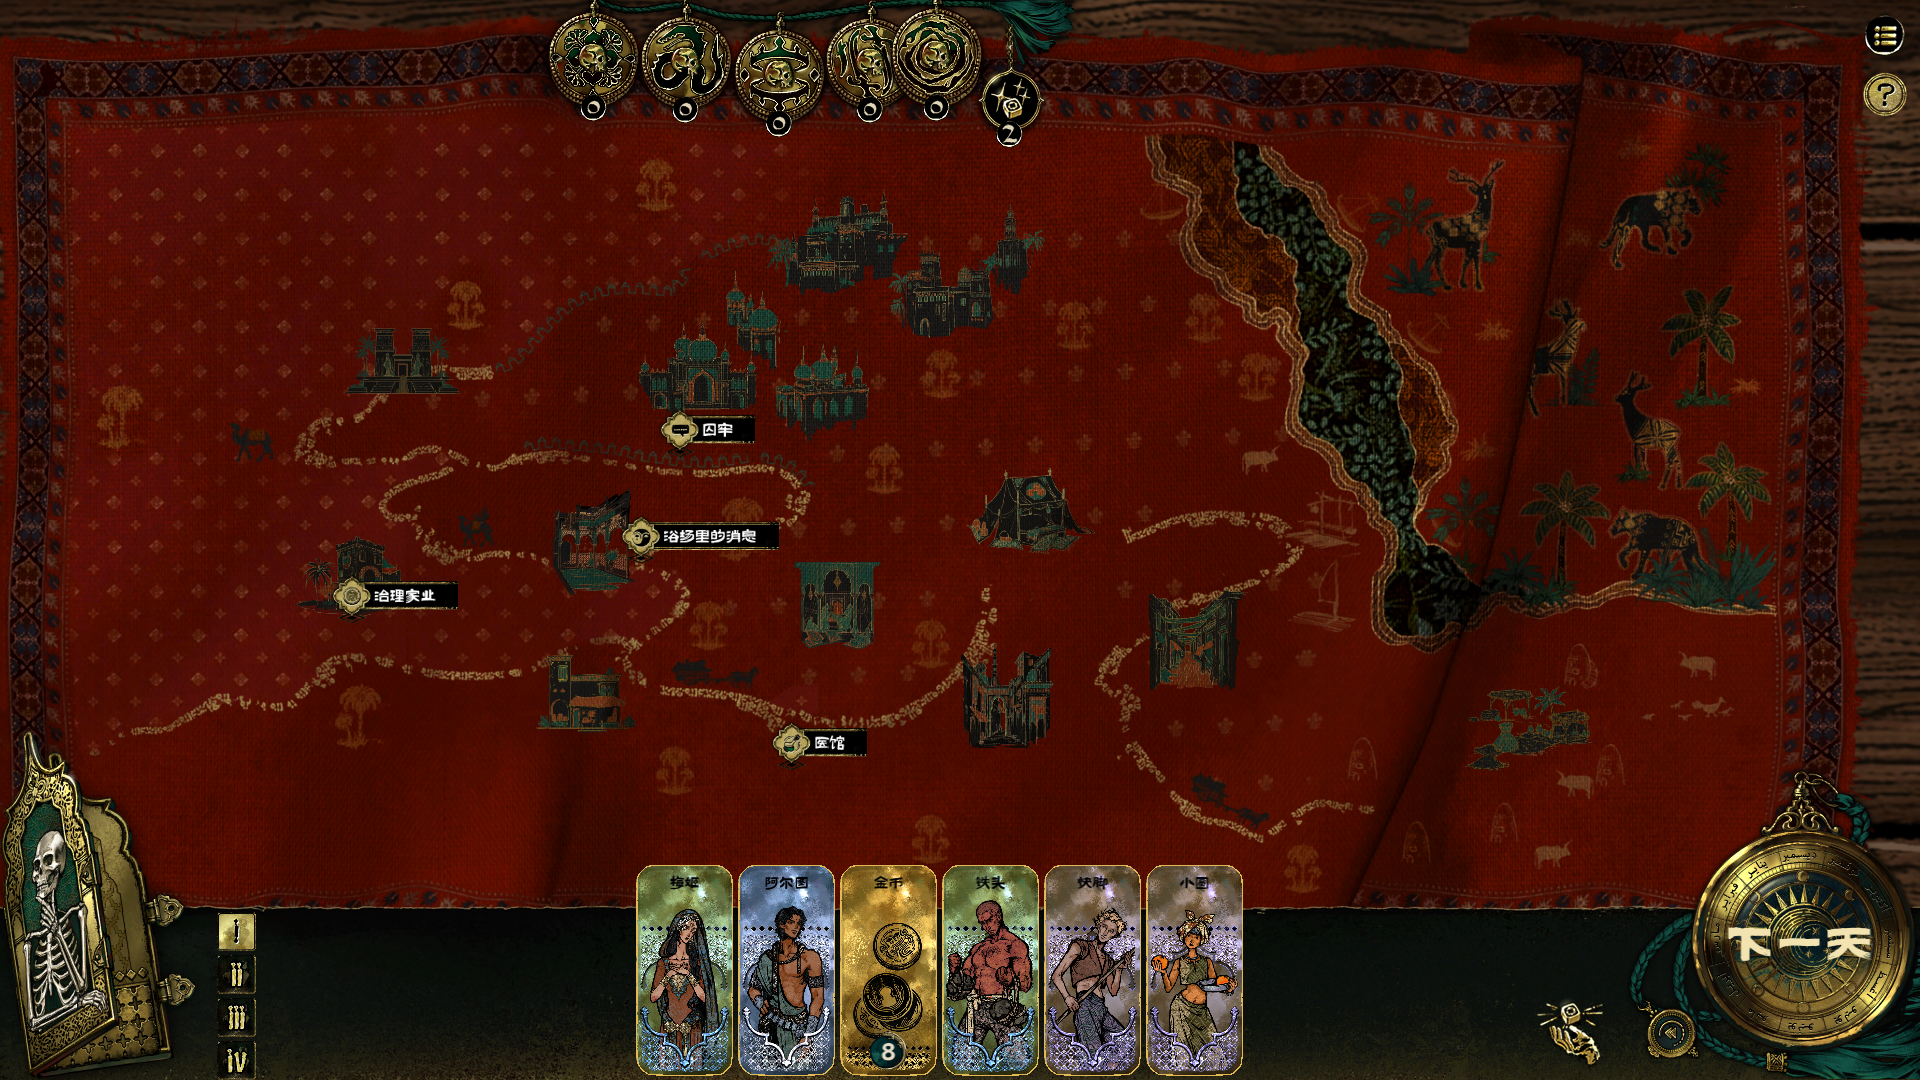
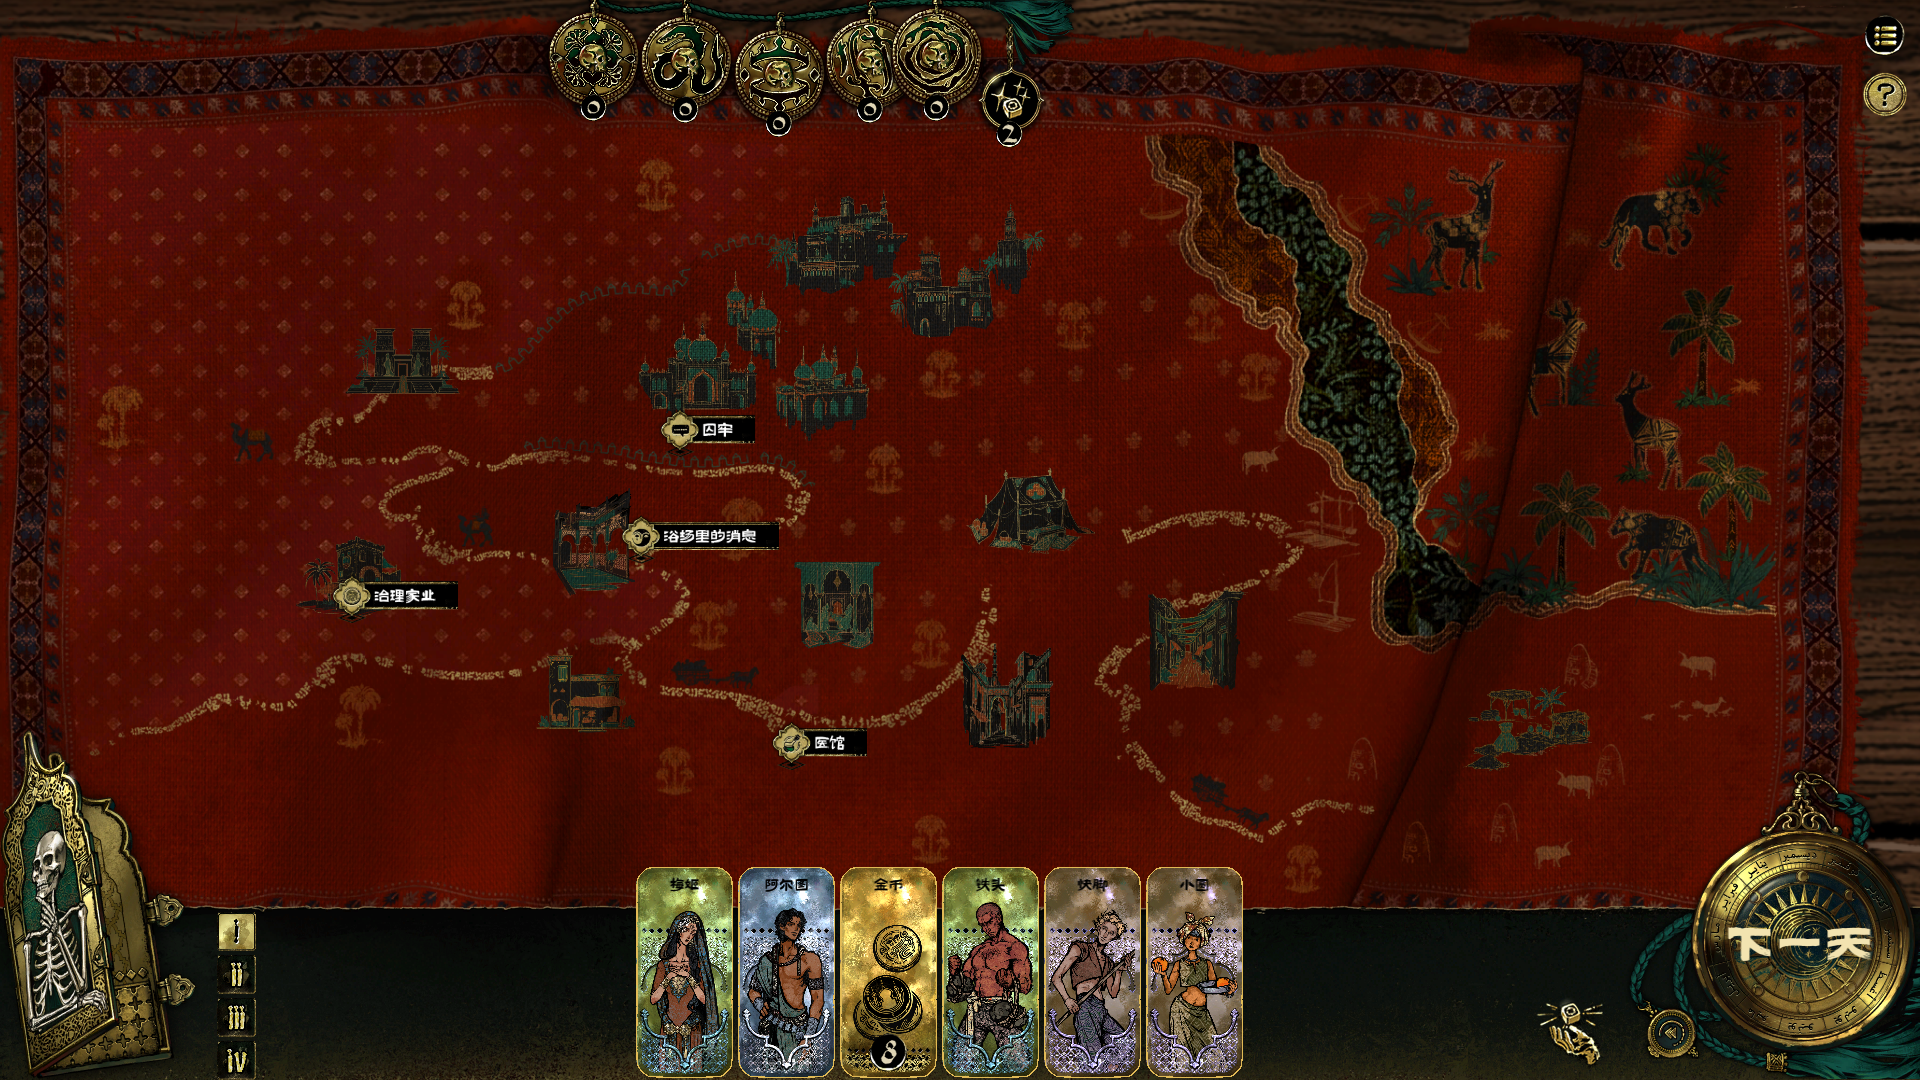
feat: finish the source card face details for the hand
Three source-backed fixes on top of the first card-surface batch:

- Hand baseline: MainUI/Hand anchors (0,0)-(1,0) pos (-63.97,4) sizeDelta
  (-1116.74,430) put the cards on the content rect's bottom edge, not its
  centre; the clone sat 2px high at 1920.
- _DETAIL_MULX2: every non-stone tier has a _DetailAlbedoMap (char
  card_d_1/card_e_0, item card_d_6/card_d_2, sudan card_d/card_d_3) at
  UV0; the six textures are copied byte-identical and multiplied into the
  albedo, with the calibrated scene light divided back out.
- Badge split: CardShowItem/Stackable is the 75x78 checkbox_bg at
  (59.5,332) while char/sudan use number_bg 80x80 at (57,332). Count and
  Life now render the number_6 TMP sprite digits (glyph_height 58/63)
  instead of font glyphs.

Whole-card averages for six hand cards are now within 6 percent of the
original screenshot; the verification tool and comparison image are
refreshed.

Changed region(s): [[0.3125, 0.7944, 0.6562, 1.0]]

diff --git a/docs/METHOD_MAP.md b/docs/METHOD_MAP.md
@@ -1,5 +1,17 @@
 # 原作—克隆方法映射表（METHOD_MAP）
 
+## 手牌卡面 1:1 第二批（2026-09-09，细节贴图/数字精灵/手牌基线）
+
+第一批之后的三项收口：
+
+1. **手牌垂直基线**：GameScene `MainUI/Hand` 锚 (0,0)-(1,0)、pos (-63.97,4)、sizeDelta (-1116.74,430)、pivot (0.52,0)——内容矩形底边距画布底 4 单位，卡牌贴其**底边**而非居中。克隆原来居中，1920 下比原作高 2px；改 `_card_items.size.y - card_size.y` 后卡顶 865→867px，与原作 867-868 对齐。
+2. **`_DetailAlbedoMap`（`_DETAIL_MULX2`）**：12 个卡材质的 detail 贴图逐档取真值——char copper/gold=card_d_1、char silver=card_e_0；item copper/gold=card_d_6、item silver=card_d_2；sudan copper/gold=card_d、sudan silver=card_d_3；stone 档无该贴图也无该 keyword。已复制 6 张纹理（SHA256 与语料一致）并在 shader 里按 `_UVSec: 0` 同 UV 做 `albedo × detail × 2`；灯光按 detail 均值除回，保持场景光常量。
+3. **数量底章按卡类分派**：`CardShowChar`/`CardShowSudan/Stackable` 是 number_bg 80×80@(57,332)，**`CardShowItem/Stackable` 是 checkbox_bg 75×78@(59.5,332)**——第一批统一用 number_bg 是错的（金币卡就是 item）。数量与寿命数字改用 `ui/source_number.gd` 的 TMP 数字精灵（spriteAsset 737d2853=number_6，fs48/fs52，`Utils.NumberToSprites 0x3ac420`），字号换算按原作截图校准到 glyph_height 58/63（克隆原来 48/52，数字明显偏小）。
+
+验收：`tools/verify_card_surface.gd` 六张卡（梅姬/阿尔图/金币 count=8/铁头/快脚/小圆）同坐标整卡均值 vs 原作 desktop.jpg：梅姬 99/103/70 vs 96/100/66、阿尔图 94/98/104 vs 90/95/101、金币 143/121/57 vs 142/122/60、铁头 100/95/65 vs 97/92/62、快脚 106/89/81 vs 106/90/78、小圆 116/97/80 vs 116/98/76——全部在 ±6% 内。截图 `card_surface_1920.png`、对比图 `card_surface_compare.png`。
+
+保留差异：材质高光/法线的空间分布仍是近似（顶部条带比原作暗约 20%，卡缘条带略亮）；`LifeBg/Image/DotText`（`<sprite=21>`）未接；装备槽、详情面板的卡面复用同一条 CardWidget 链但未逐屏对拍。
+
 ## 手牌卡面 1:1 第一批（2026-09-09，卡面壳层已验收）
 
 CardNew.prefab（docs/ui_layout/CardNew.md）根 194×422，两个旧实现漏掉的壳层：**Outline** 256×525 pos(0,22) 的 `m_IsActive: 0`——原作从不绘制；**Flash** 256×512 pos(0,0) 且 `m_IsActive: 1`，sprite=Sprite/card_outline.asset（Texture2D/card_outline.png，256×512）+ Resources/materials/CardFlash.mat（keywords `_ENABLEINNEROUTLINE_ON`/`_INNEROUTLINEOUTLINEONLYTOGGLE_ON`，`_InnerOutlineColor` 0.882/0.728/0.337，`_InnerOutlineWidth` 0.08）——原作卡面边缘那圈金色内描边就是它，不是 Outline。CardShowChar/Item/Sudan 的 **Stackable 是 80×80 的 Sprite/number_bg.asset**（68×68 纹理）底部锚 +50 → 左上 (57,332)，旧实现的 checkbox_bg 75×78 是错的底图。12 个 `materials/card/{char,item,sudan}/{stone,copper,silver,gold}.mat` 的 `_MainTex`/`_BumpMap`/`_MetallicGlossMap`/`_BumpScale`/`_GlossMapScale` 已逐档取真值（stone 0.9027777/0.3020833、copper 0.3819444/0.7847222、silver 0.2847222/0.8090278、gold 0.3680556/0.75），材质对**所有稀有度**生效——旧实现 `rare<2` 直接 return 是自制捷径。

diff --git a/docs/ui_layout/PageFidelity.md b/docs/ui_layout/PageFidelity.md
@@ -38,6 +38,7 @@
 
 ### 2026-09-09 连续验收批次
 
+- 手牌卡面第二批（2026-09-09）：手牌基线改贴内容矩形底边（原作 1920 下卡顶 867px）、接入 `_DETAIL_MULX2` 细节贴图（6 张纹理，逐档真值）、数量底章按卡类分派（item 用 checkbox_bg 75×78@(59.5,332)）、数量/寿命数字改用 number_6 数字精灵（glyph_height 58/63）。六张卡整卡均值与原作差 ≤6%。仍缺：高光/法线空间分布近似、LifeBg/Image/DotText 未接。
 - 手牌卡面壳层（2026-09-09 续批）：补上 CardNew/Flash（card_outline.png + CardFlash 金色内描边；Outline 在预制体里 m_IsActive=0，原作不画）、数量底章改 number_bg 80×80@(57,332)、卡牌材质对全部稀有度生效并逐档写入真值 _BumpScale/_GlossMapScale；修掉自定义 canvas_item shader 线性/sRGB 采样不一致导致卡面暗约 2 倍的问题，并按原作截图逐档校准灯光项。对拍脚本 tools/verify_card_surface.gd + 截图 card_surface_1920.png：同坐标卡面顶部条带与原作差 ≤10%，卡牌 UI 专项 80/80、1006 断言。保留：手牌整体高 2–3px、_DetailAlbedoMap 未接、TMP 数字精灵仍为文字。
 - 桌面地图与事件标牌（2026-09-09 续批）：地图改按 GameScene 相机(97,-106)/正交半高1732 与 Map 缩放1.25 做等比投影，建筑改用 Image 子节点自身尺寸与偏移（不再用 Location 容器矩形），rites 图集按实际 PNG 尺寸同比换算裁切；事件标题宽度参与 bound，避免多个事件挤在一起。1920x1080、1280x720、1600x1000（16:10）三窗口 GPU 真实点击：图标面与标题条分别打开正确实例、自宅同点4个仪式展开后不重叠、画布始终 3840x2160；截图 desktop_map_{1920,1280,1600}.png 与原作 desktop.jpg 同比例裁切，建筑吻合、标牌高度差<5%。图标留白、TMP基线、发光与像素级重叠对位仍缺，详见METHOD_MAP顶部条目。
 - 桌面顶部续批：菜单与帮助在桌面之后接收鼠标，菜单恢复圆形底图；声望恢复数字底托、number_6与7100006金骰；处刑日改为剩余寿命/玩家初始寿命，补路径图、红数字及RedText缩放曲线。两尺寸GPU真实菜单打开/返回/帮助、最后一天动画、仪式槽内较老苏丹卡、不同分母及隐藏状态通过；完整490/490、3605断言，parity3882/0。精确TMP基线、发光、进度过渡和同状态逐帧对拍仍缺，详见METHOD_MAP顶部条目。

diff --git a/docs/ui_layout/CardSurface.md b/docs/ui_layout/CardSurface.md
@@ -13,6 +13,17 @@
 
 验收与保留差异见 METHOD_MAP 顶部「手牌卡面 1:1 第一批」；截图 `card_surface_1920.png`，对拍脚本 `tools/verify_card_surface.gd`。
 
+## 2026-09-09 第二批：手牌基线、细节贴图、数字精灵
+
+| 旧偏差 | 原作依据 | 修正 |
+| --- | --- | --- |
+| 手牌卡比原作高 2px | GameScene MainUI/Hand 内容矩形底边距画布底 4 单位，卡牌贴底边 | `_layout_hand_cards` 的 Y 由居中改为 `size.y - card_size.y` |
+| 缺 `_DETAIL_MULX2` 细节层 | 12 个卡材质逐档的 `_DetailAlbedoMap`（stone 档没有） | 复制 6 张 detail 纹理，shader 里同 UV 做 `albedo × detail × 2`，灯光按 detail 均值除回 |
+| 数量底章统一用 number_bg | CardShowItem/Stackable 是 checkbox_bg 75×78@(59.5,332) | 按卡类分派：char/sudan 用 number_bg 80×80@(57,332)，item 用 checkbox_bg |
+| 数量/寿命数字是普通字体 | 两个 TMP 组件都用 spriteAsset number_6（fs48/fs52） | 改用 `ui/source_number.gd` 数字精灵，glyph_height 58/63 |
+
+六张卡整卡均值与原作差 ≤6%（见 METHOD_MAP）；对比图 `card_surface_compare.png`。
+
 
 ## 原因与对应实现
 
